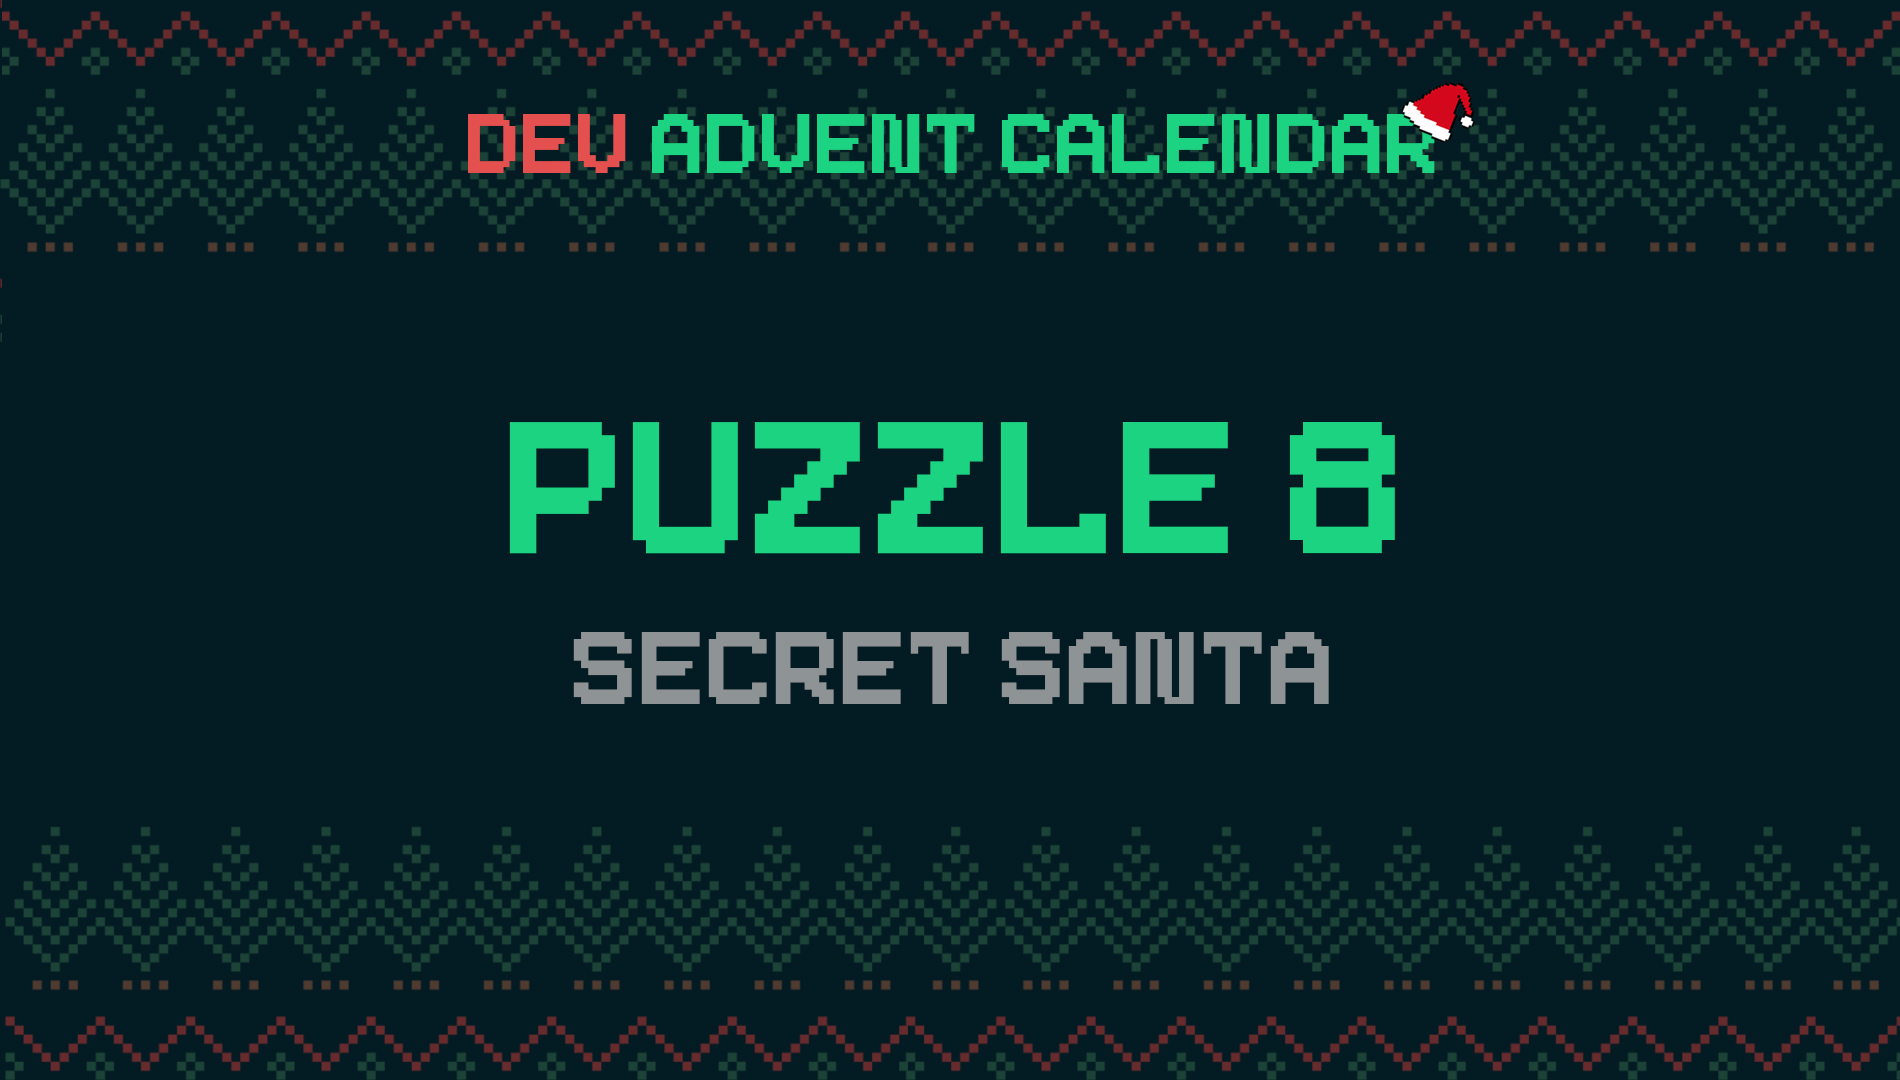
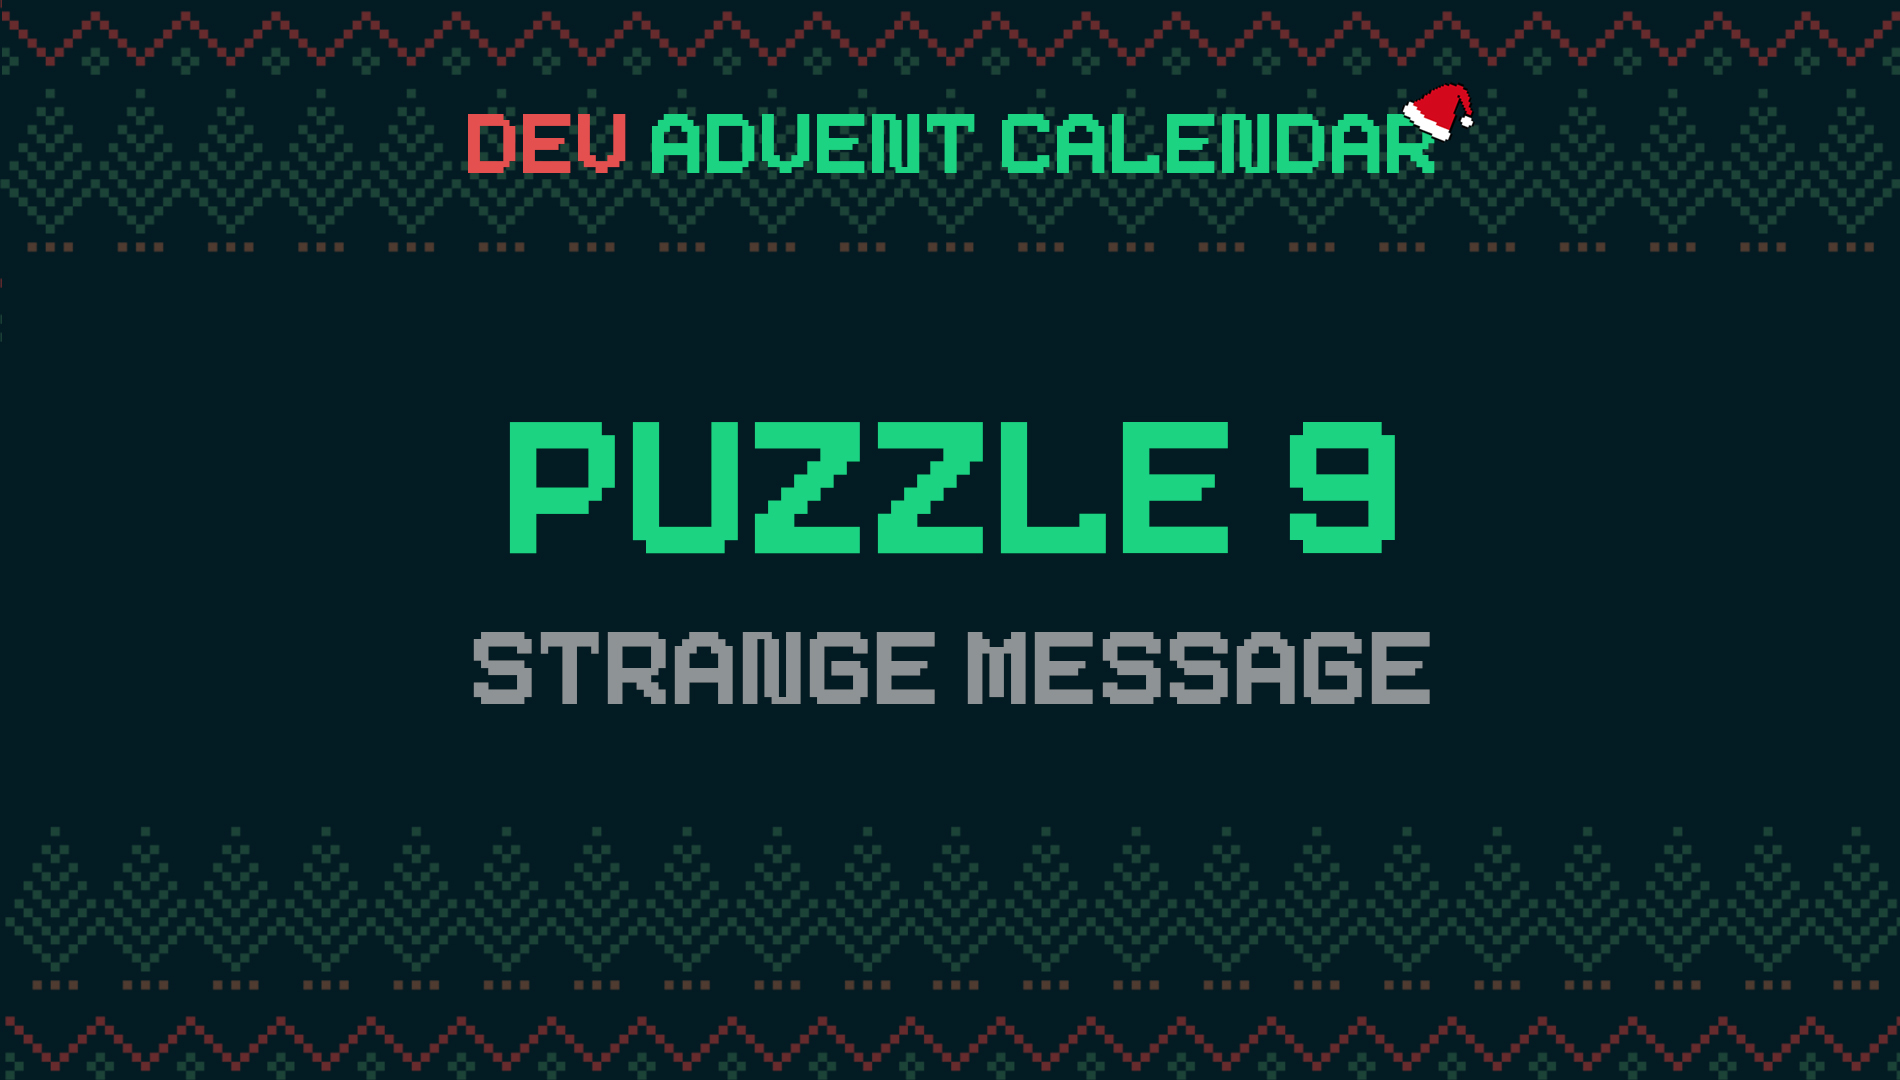
changed cover

Changed region(s): [[0.2484, 0.5806, 0.7763, 0.6722], [0.6832, 0.4278, 0.7453, 0.4889]]

diff --git a/README.md b/README.md
@@ -2,7 +2,7 @@
 
 ℹ For detailed information about the contest, check out [devadvent/readme](https://github.com/devadvent/readme/)
 
-# Dev Advent Calendar 🎅 Puzzle 9 - Encoded Message 🔐
+# Dev Advent Calendar 🎅 Puzzle 9 - Strange Message 📜
 
 Santa received a strange looking file in his mailbox. It looks like it could be a hidden message.
 
